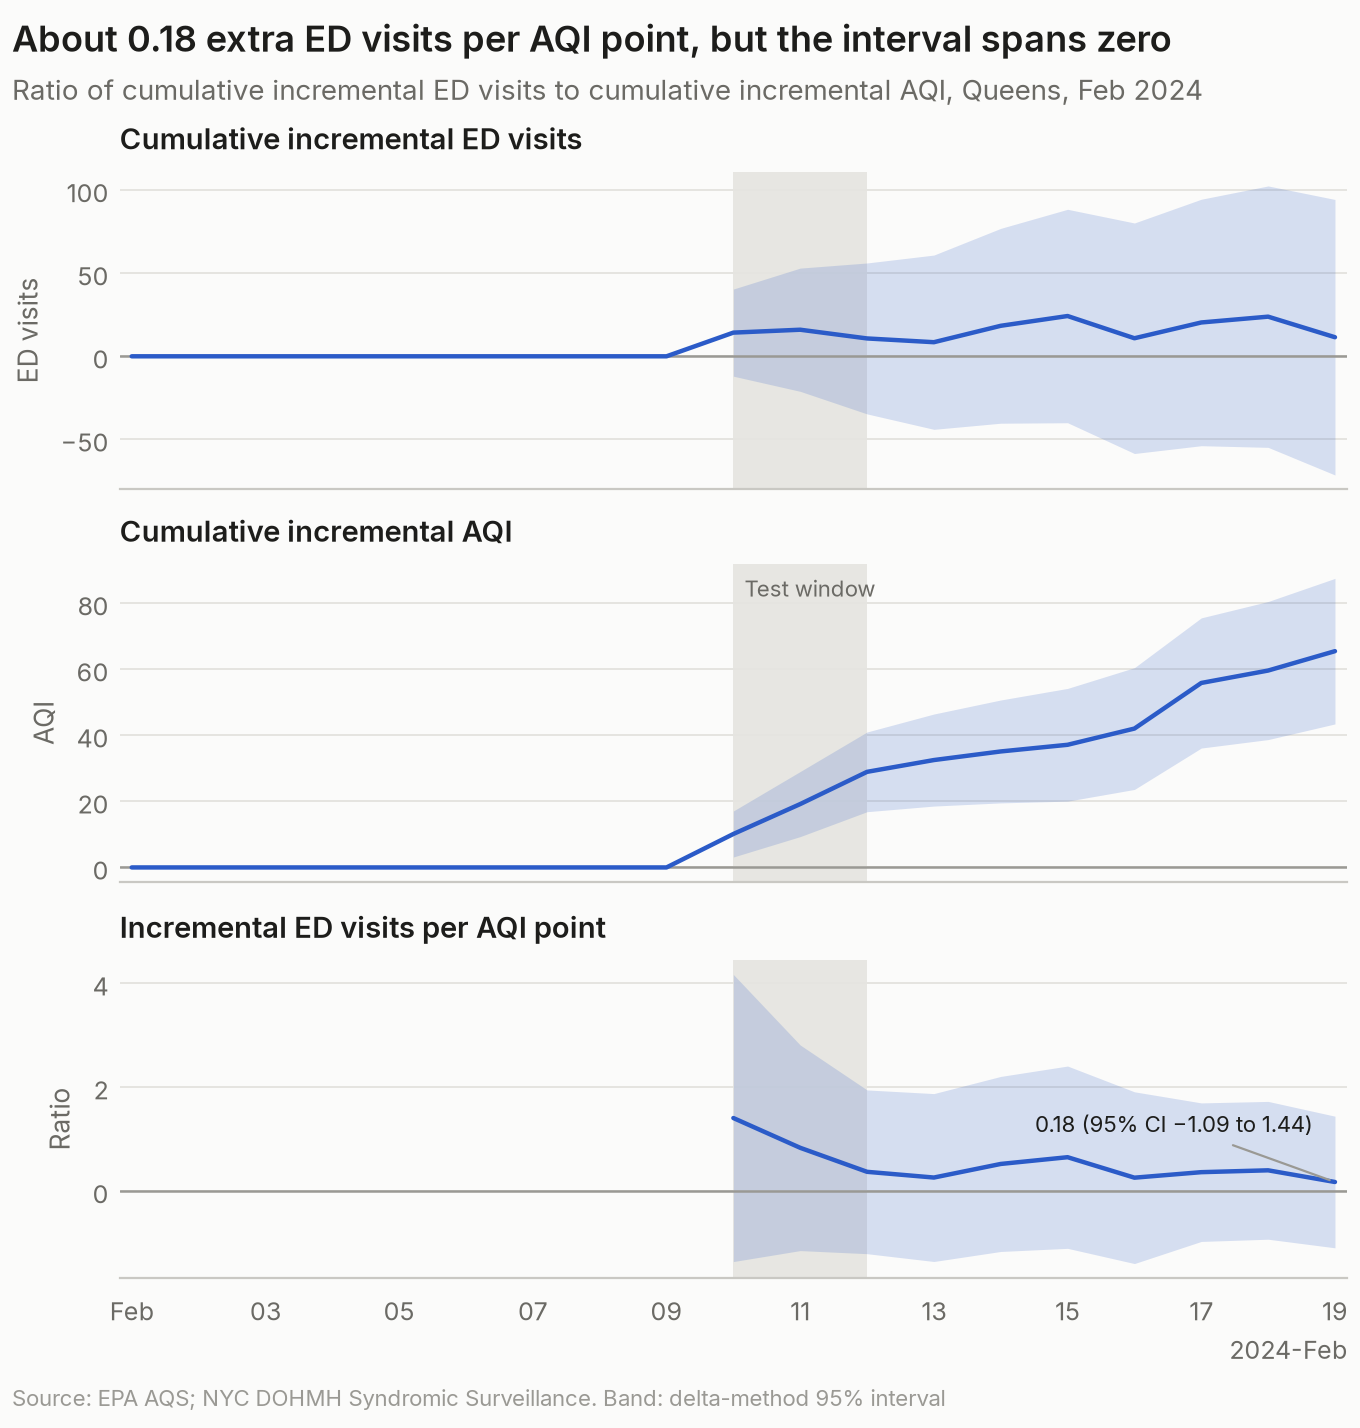
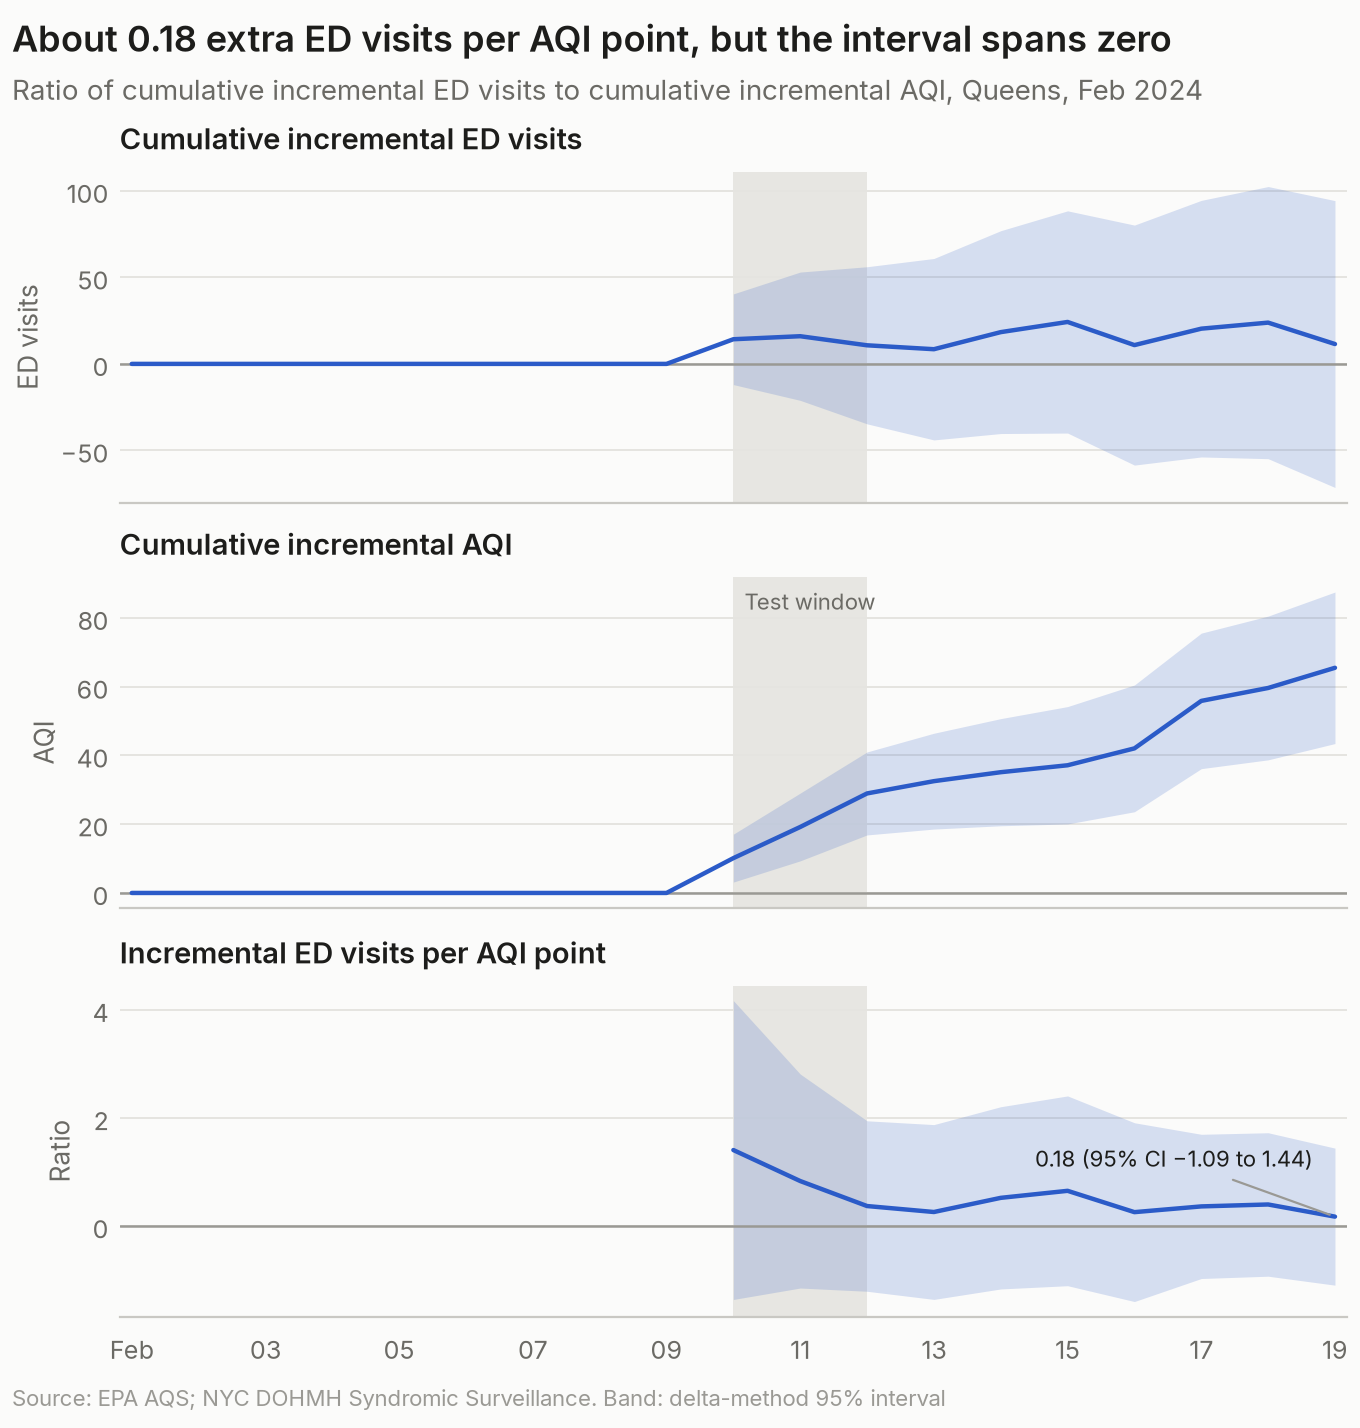
Hide date offset label on TBR and ratio figures
The concise date converter set by portfolio_charts adds a "2024-Feb"
offset label under the x-axis. The subtitle already gives Feb 2024, so
hide the offset text on the bottom axis and regenerate the three figures.

diff --git a/figures.py b/figures.py
@@ -218,6 +218,7 @@ def tbr_panels(m, unit, headline, name):
     for i, ax in enumerate(axs):
         pc.shade_period(ax, TEST_START, TEST_END, "Test window" if i == 2 else None)
         ax.set_ylabel(unit)
+    axs[-1].xaxis.get_offset_text().set_visible(False)  # year is in the subtitle
     pc.title(fig, headline, "Time-based regression, Queens vs. a Bronx-based counterfactual, "
                             "Feb 2024, 95% intervals")
     pc.note(fig, AQS_NOTE if m == "aqi" else SSD_NOTE)
@@ -250,6 +251,7 @@ for ax, unit in zip(axs, ["ED visits", "AQI", "Ratio"]):
     pc.reference_line(ax)
     pc.shade_period(ax, TEST_START, TEST_END, "Test window" if unit == "AQI" else None)
     ax.set_ylabel(unit)
+axs[-1].xaxis.get_offset_text().set_visible(False)  # year is in the subtitle
 
 r, lo, hi = final["ratio"], final["ratio"] - final["ratio_half"], final["ratio"] + final["ratio_half"]
 axs[2].annotate(f"{r:.2f} (95% CI {lo:.2f} to {hi:.2f})".replace("-", "−"), xy=(final.name, r), xytext=(-8, 18),
